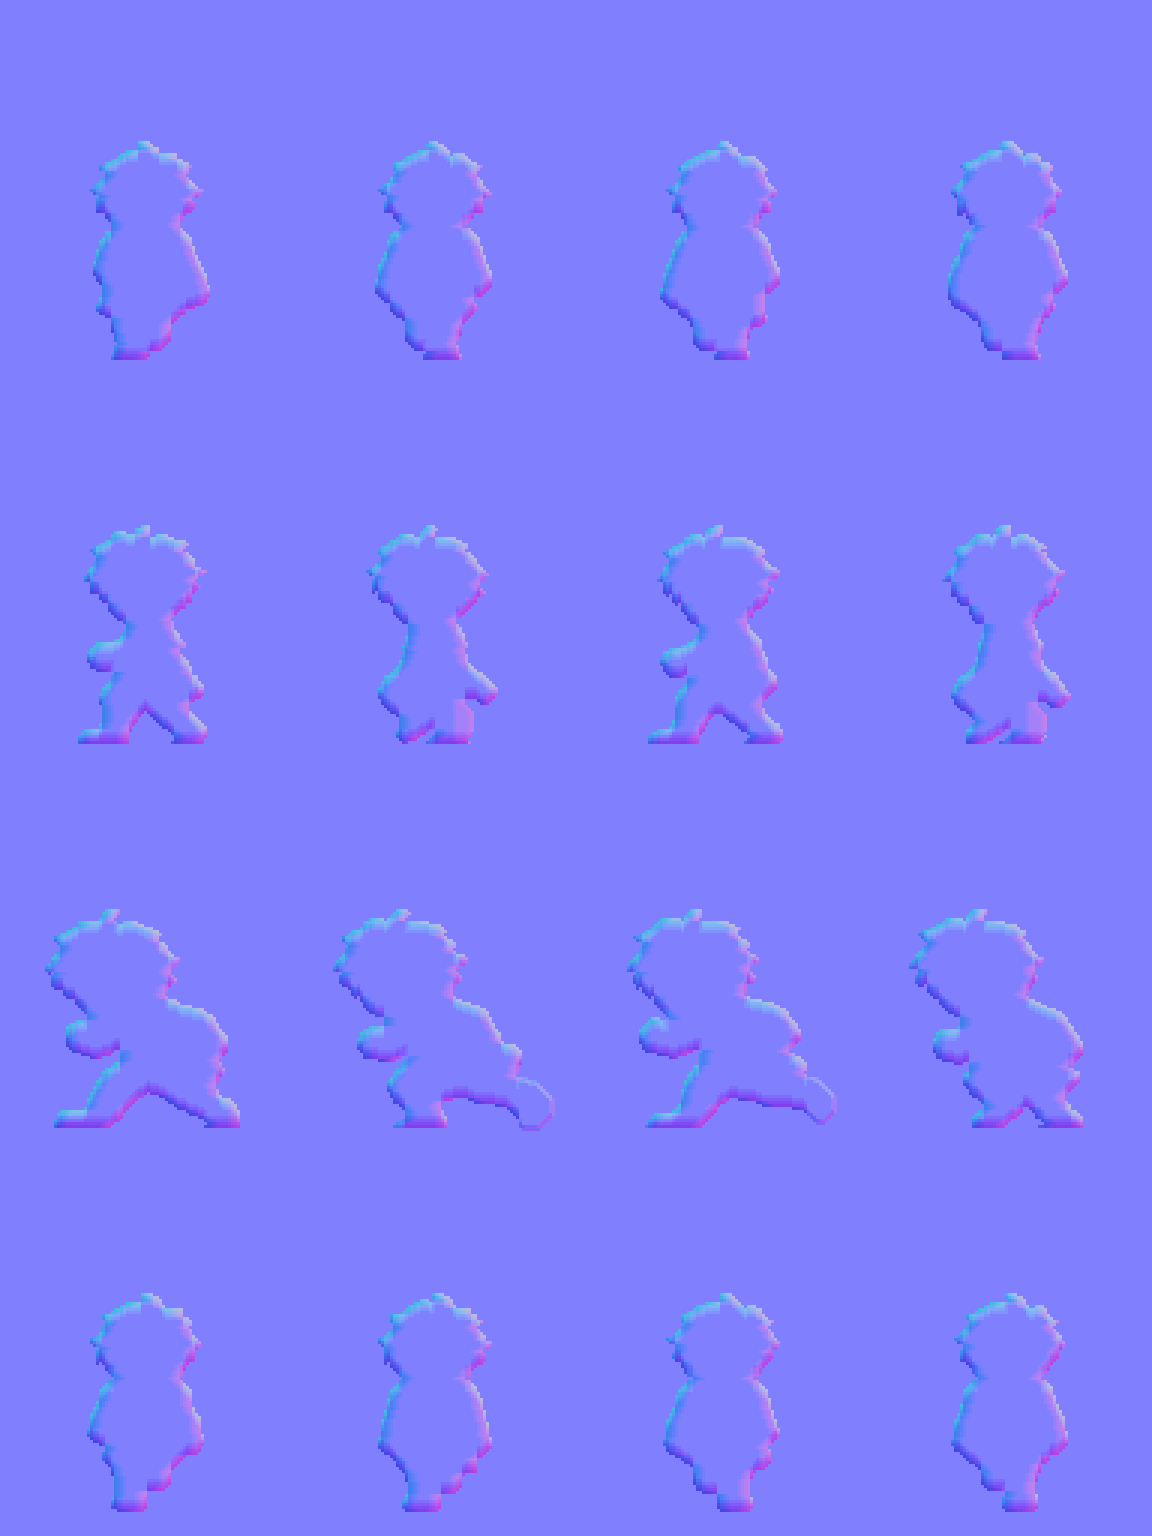
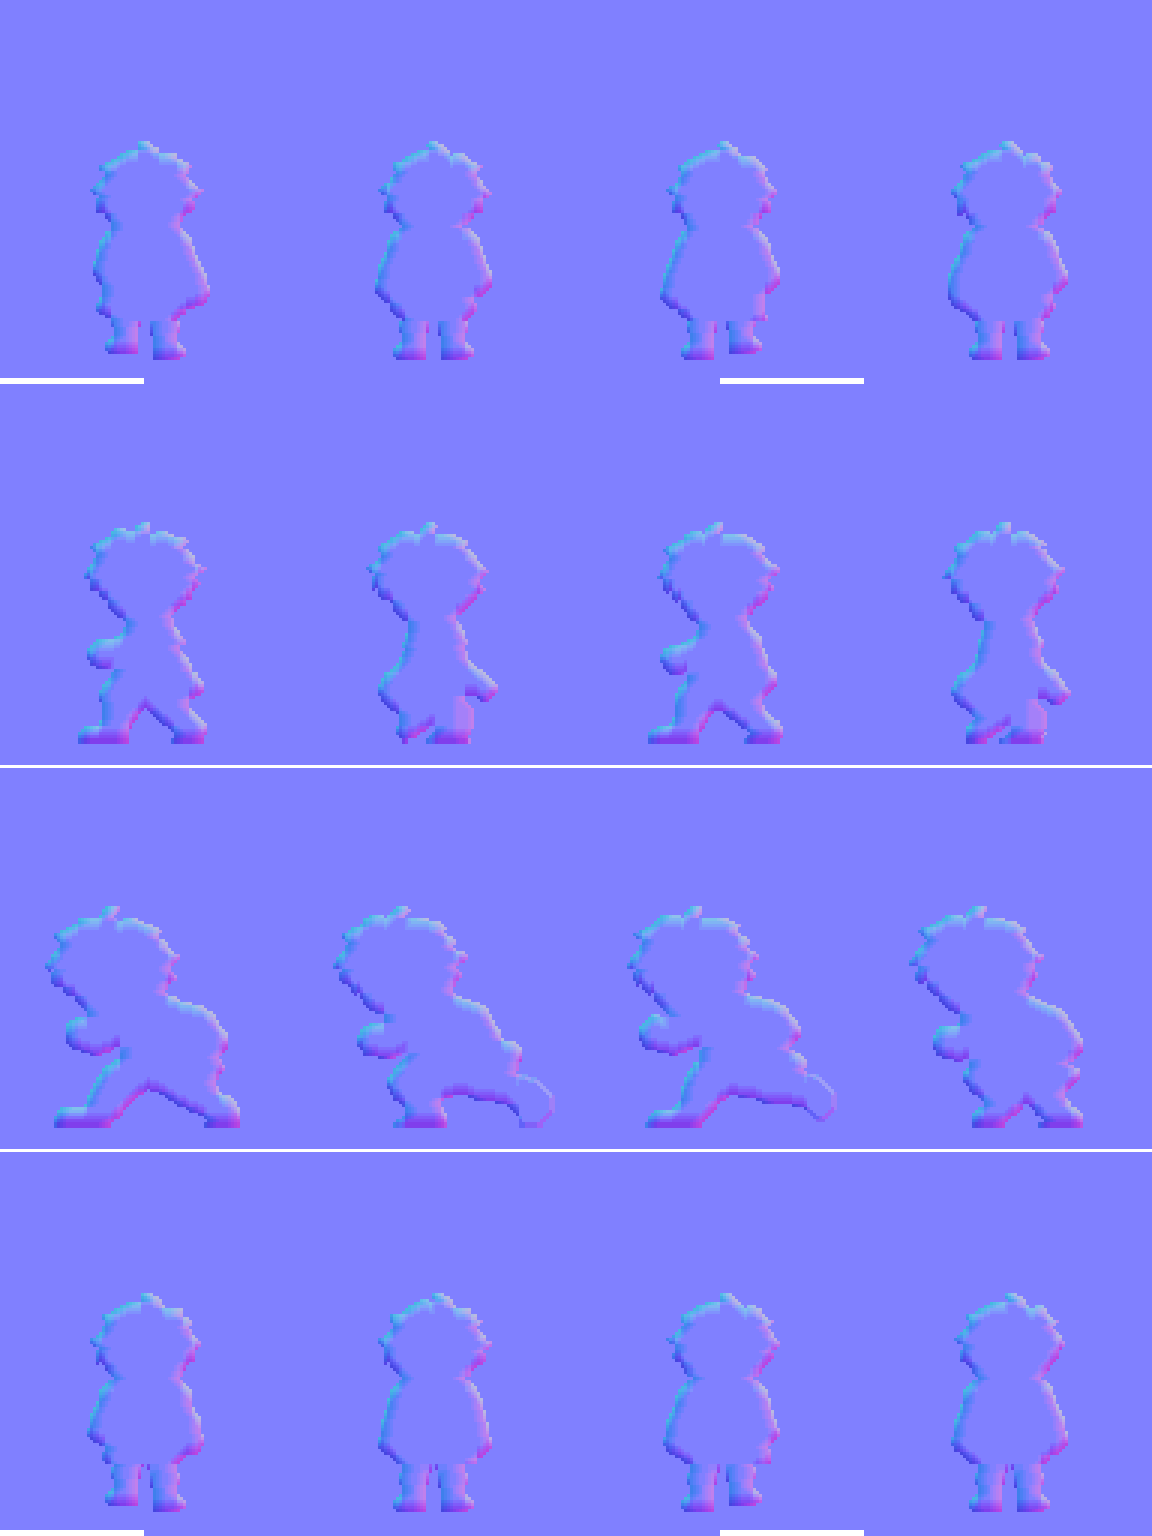
Hero walk sheet: both legs in front/back walk (from idle legs), dark sole row on side walk/run; edge test checks bottom-row outline

diff --git a/Game/Assets/_Project/Combat/Tests/HeroSheetEdgeTests.cs b/Game/Assets/_Project/Combat/Tests/HeroSheetEdgeTests.cs
@@ -10,6 +10,7 @@ namespace HumanLastRampart.Combat.Tests
     // 예전 달리기 행(행 2) 1·2번 칸은 뒤로 뻗은 다리·장화가 옆으로 잘려 있었다 (42~45화소 곧은 단면) — Codex K-133 그림으로 고쳐졌다.
     // 걷기 행(행 1) 1·3번 칸은 앞 장화 끝이 칸 안쪽에서 잘려 있었다 (33~42화소, 맨 끝 줄이 아니라 놓쳤다) — Codex K-134로 고쳐졌다.
     // 그래서 맨 끝 줄만이 아니라 칸 안의 모든 세로 윤곽(불투명 옆이 투명)을 본다. 잘린 칸이 하나라도 생기면 실패한다
+    // 앞·뒤 걷기 행(0·3)은 한쪽 다리가 외투 밑에서 끊겨 있어 서 있는 뒷모습 그림의 두 다리로 바꿨다 (2026-11-02, 사용자 허락으로 Claude가 고침)
     public sealed class HeroSheetEdgeTests
     {
         const string Dir = "_Project/Art/Characters/Hero/";
@@ -53,6 +54,30 @@ namespace HumanLastRampart.Combat.Tests
                     }
 
                 Assert.IsEmpty(found, file + "에 옆이 곧게 잘린 칸이 있다: " + string.Join(", ", found));
+
+                // 밑이 가로로 잘린 칸: 칸 맨 아래 불투명 줄이 어두운 밑창 윤곽이 아니라 부츠 색이면 땅에서 싹둑 잘린 것이다
+                // (옆 달리기·걷기 8칸이 그랬다 — 26~61%. 고친 뒤와 서 있는 그림은 100%)
+                var cut = new List<string>();
+                for (int r = 0; r < rows; r++)
+                    for (int c = 0; c < columns; c++)
+                    {
+                        int cellY = (rows - 1 - r) * ch, opaque = 0, dark = 0, bottom = -1;
+                        for (int y = 0; y < ch && bottom < 0; y++)   // 아래(y=0)부터 처음 불투명이 있는 줄
+                            for (int x = 0; x < cw; x++)
+                                if (pixels[(cellY + y) * tex.width + c * cw + x].a > 128) { bottom = y; break; }
+                        if (bottom < 0) continue;
+                        for (int x = 0; x < cw; x++)
+                        {
+                            Color32 p = pixels[(cellY + bottom) * tex.width + c * cw + x];
+                            if (p.a <= 128) continue;
+                            opaque++;
+                            if (p.r < 55 && p.g < 55 && p.b < 55) dark++;
+                        }
+
+                        if (dark < opaque * 0.85f) cut.Add($"행{r} 칸{c} 밑줄 어두운 비율 {dark}/{opaque}");
+                    }
+
+                Assert.IsEmpty(cut, file + "에 밑이 가로로 잘린 칸이 있다: " + string.Join(", ", cut));
             }
             finally { Object.DestroyImmediate(tex); }
         }

diff --git a/Tools/CodexCards/briefs/K-135.md b/Tools/CodexCards/briefs/K-135.md
@@ -1,0 +1,8 @@
+Card K-135 - FIX the flat-sliced boot BOTTOMS of the hero side frames (assets only, no code).
+
+Game/Assets/_Project/Art/Characters/Hero/hero_walk_run_grid.png (+ _normal.png), 4x4 grid, cell 288x384, pivot (144,360), 3x upscaled pixel art (every edit on the 3 px grid). Rows 1 (side walk) and 2 (side run), all 4 frames: the boots were cut horizontally at the ground line y=359. The last art-pixel row (y=357-359) is mostly brown boot colour with no dark outline and no sole, so in game the feet look chopped off at the bottom (the user keeps reporting "feet cut"). Measured: bottom row dark-outline share is only 26-60% in rows 1-2, versus ~100% in rows 0 and 3 (front/back walk), whose boots end with a proper dark sole outline. A toe angled downward was simply sliced flat.
+Fix every boot that touches y=359 in rows 1 and 2 so it ends with a real sole: dark outline on the bottom and on the toe/heel corners, a slightly darker sole band above it, the toe tip rounded like rows 0 and 3. Keep the contact line at y=359 (last opaque row stays 359; do not move the pivot). To make room, you may shift a frame's whole figure up by exactly 3 px (one art pixel) and draw the missing sole row below, or reshape the bottom 2 art rows - choose per frame, but keep the run/walk cycle smooth (frame 0 -> 1 -> 2 -> 3) and keep K-133/K-134 fixes (no straight vertical cut edges of 30 px or more anywhere). Same palette, light from top-left. Update the normal map the same way. Rows 0 and 3 must stay pixel-identical.
+Follow the NO AI SLOP rule in COMMON.md (write the do-not list first).
+Output: fixed sheets in Docs/References/codex_k135_v1/ (same names and sizes), before/after 4x crops of the bottom 72 px of all 8 frames, README.md (Korean) with per-cell diff counts and, per cell, the bottom-row (y=357-359) dark-outline share before/after (target >= 85%), review page _HTML/6_그림_화면/codex_K-135_주인공밑창_v1.html with the walk and run cycles animated before/after on a stone-floor colour. Do NOT overwrite files under Game/.
+
+ADDED (same card, higher priority): rows 0 (back walk) and 3 (front walk), all 4 frames. Seen from the front/back the legs look chopped: below the coat only one boot is drawn full length, and the other (lifted/far) leg is a short stub that ends in a flat horizontal edge right under the coat hem, so the hero looks like he has a cut-off leg while walking. Compare hero_back_idle.png and hero_command.png, where both legs show trouser + full boot. Redraw the legs of rows 0 and 3 as a proper 4-frame walk seen from behind / from the front: both legs visible in every frame, the lifted leg shown with knee bent and the boot sole visible (foreshortened, slightly higher, but never ending in a flat cut), leg length matching the idle/command sprites, same contact line y=359 for the planted foot, same pivot, palette, outline, 3 px grid. Do not change heads/torsos/arms. Update the normal map the same way. With this addition rows 0 and 3 are allowed to change.

diff --git a/Tools/CodexCards/briefs/K-136.md b/Tools/CodexCards/briefs/K-136.md
@@ -1,0 +1,17 @@
+Card K-136 - hero walk legs, concrete recipe (assets only, no code). Supersedes K-135 (K-135 draft in Docs/References/codex_k135_v1 is NOT approved; start again from the Game/ originals).
+
+File: Game/Assets/_Project/Art/Characters/Hero/hero_walk_run_grid.png (+ _normal.png). 4x4 grid, cell 288x384, pivot (144,360), 3x upscaled pixel art (edit only on the 3 px grid), last opaque row y=359.
+
+PART A - rows 0 (back walk) and 3 (front walk), all 4 frames. Problem: under the coat only ONE leg (trouser + boot) is drawn full length; the other leg is a stub that ends in a flat horizontal cut just below the coat hem, so the hero looks one-legged. Recipe, per frame:
+1. Take the complete leg (trouser part below the hem + boot down to y=359) that already exists in that same frame.
+2. Mirror it horizontally to build the missing leg on the other side, placed at the same hip spacing as hero_back_idle.png (back) / hero_command.png frame 0 (also a back view; for the front row keep the toe highlight of the existing front boot).
+3. Alternate a small lift to show walking: frame 0 left leg raised 6 px, frame 1 both down, frame 2 right leg raised 6 px, frame 3 both down (a raised leg keeps its full boot shape and sole outline, it just sits 6 px higher; never cut flat).
+4. Both legs are drawn behind the coat hem (the coat overlaps the tops of the legs). Heads, torsos, arms, coat stay pixel-identical.
+5. Every boot ends with the dark sole outline like hero_back_idle.png.
+
+PART B - rows 1 (side walk) and 2 (side run), all 4 frames: the boots are sliced flat at y=359 (bottom art row is boot brown with no outline). Draw the bottom art row (y=357-359) as dark outline under every boot that touches the ground and round the toe/heel corners by one art pixel; do not grow thin 1-2 art-pixel tips downward. Keep K-133/K-134 fixes (no straight vertical silhouette edge of 31 px or longer).
+
+Normal map: apply the same geometry (mirror the normal of the copied leg, flip its X channel: R -> 255-R).
+Checks to report in README.md (Korean): per-cell changed-pixel counts; per-cell bottom-row dark share (RGB<55) - target >= 85% for rows 1-2; per-cell longest straight vertical silhouette edge (< 31); confirm heads/torsos unchanged (diff above the coat hem = 0 for rows 0 and 3).
+Follow the NO AI SLOP rule in COMMON.md (do-not list first). Finish the whole card; if something cannot be done, say exactly which frame and why.
+Output: fixed sheets in Docs/References/codex_k136_v1/ (same names and sizes), one before/after sheet image of all 16 frames at 2x on a stone-grey background, review page _HTML/6_그림_화면/codex_K-136_주인공다리_v1.html with the four cycles animated before/after. Do NOT overwrite files under Game/.
